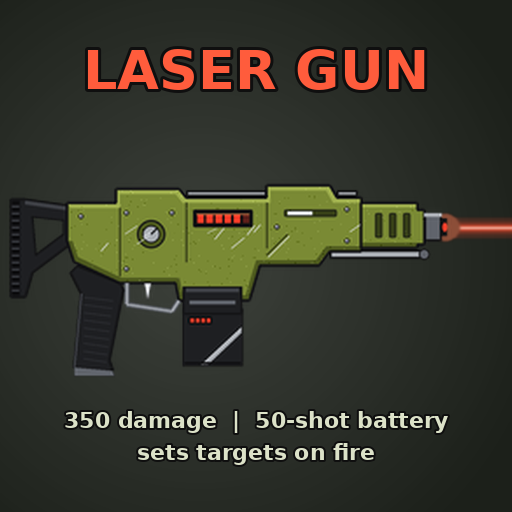
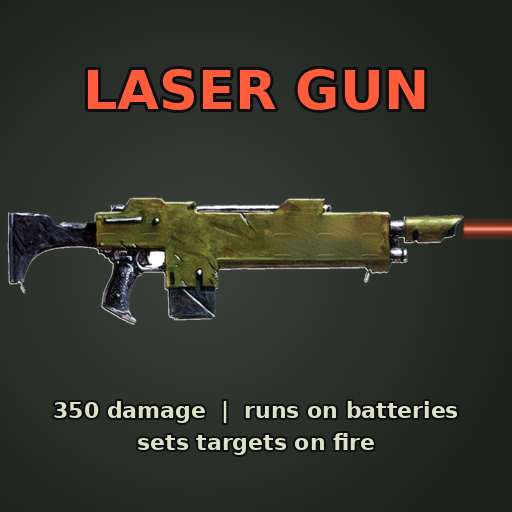
Laser Rifle sprite from the user's reference picture
Flipped to face right, background removed, insignia and lettering painted out;
regions/gun point re-fitted so the hands line up like the Boltgun rifle.

Claude-Session: https://claude.ai/code/session_01PqPi8SRqyZdJEsWyYG1nUx

diff --git a/tools/make_rifle_from_reference.py b/tools/make_rifle_from_reference.py
@@ -1,0 +1,43 @@
+import sys, numpy as np, cv2
+from PIL import Image
+src, out_sprite, out_full = sys.argv[1:4]
+img = cv2.imread(src)                       # BGR 1000x286
+h, w = img.shape[:2]
+# 1) paint out the insignia and lettering: fill smoothly from the surrounding paint (inpaint),
+#    then put back paint grain taken from a clean part of the receiver so it doesn't look smeared
+mask = np.zeros((h, w), np.uint8)
+for x0, y0, x1, y1 in ((190, 50, 428, 114), (188, 108, 418, 137), (648, 66, 798, 94)):
+    mask[y0:y1, x0:x1] = 255
+filled = cv2.inpaint(img, mask, 15, cv2.INPAINT_TELEA)
+filled = cv2.GaussianBlur(filled, (0, 0), 6)
+clean = img[100:146, 505:600].astype(np.float32)
+grain = clean - cv2.GaussianBlur(clean, (0, 0), 3)
+reps = (h // grain.shape[0] + 1, w // grain.shape[1] + 1, 1)
+grain = np.tile(grain, reps)[:h, :w]
+patch = np.clip(filled.astype(np.float32) + grain * 0.5, 0, 255)
+m3 = cv2.GaussianBlur(mask.astype(np.float32) / 255, (0, 0), 3)[..., None]
+img = (img * (1 - m3) + patch * m3).astype(np.uint8)
+# 2) cut out the white background (flood from the border) with a soft edge
+near_white = (img.min(axis=2) > 225).astype(np.uint8)
+ff = near_white.copy()
+fmask = np.zeros((h + 2, w + 2), np.uint8)
+for x in range(w):
+    for y in (0, h - 1):
+        if ff[y, x] == 1: cv2.floodFill(ff, fmask, (x, y), 2)
+for y in range(h):
+    for x in (0, w - 1):
+        if ff[y, x] == 1: cv2.floodFill(ff, fmask, (x, y), 2)
+bg = (ff == 2).astype(np.uint8)
+bg = cv2.morphologyEx(bg, cv2.MORPH_OPEN, np.ones((2, 2), np.uint8))
+alpha = (1 - bg) * 255
+alpha = cv2.GaussianBlur(alpha.astype(np.float32), (0, 0), 0.8).clip(0, 255).astype(np.uint8)
+rgba = np.dstack([img[..., ::-1], alpha])
+full = Image.fromarray(rgba, "RGBA").transpose(Image.FLIP_LEFT_RIGHT)   # muzzle to the right, like every game gun
+full.save(out_full)
+# 3) game sprite: 304x144 canvas at 0.27 scale, pistol grip at (75, 99) like the Boltgun rifle
+k = 0.27
+small = full.resize((round(w * k), round(h * k)), Image.LANCZOS)
+canvas = Image.new("RGBA", (304, 144), (0, 0, 0, 0))
+canvas.alpha_composite(small, (6, 45))
+canvas.save(out_sprite)
+print(small.size, canvas.getbbox())

diff --git a/tools/build_items.py b/tools/build_items.py
@@ -49,9 +49,12 @@ def base(key, mod_type, ppu, regions, size, rarity, weight, price, stack, craft,
         "repairRecipeItems": [{"itemId": i, "itemNumber": float(n)} for i, n in repair],
     }
 
-# Same canvas, regions and hand/muzzle/magazine offsets as the Boltgun rifle (the art is drawn to match).
-RIFLE_REGIONS = [("Main", (3, 15, 253, 118)), ("MainBody", (21, 21, 229, 110)), ("MovingPart", (99, 31, 45, 17)),
-                 ("Barrel", (221, 42, 29, 25)), ("Aimer", (73, 17, 128, 11)), ("Gunstock", (4, 28, 36, 56))]
+# The sprite is made from the user's reference picture (tools/make_rifle_from_reference.py): a 304x144 canvas at
+# 0.27 scale with the pistol grip at (75, 99). The Main region's centre sits at the same place relative to the
+# grip as on the Boltgun rifle, so the Boltgun's hand offsets still line up. The muzzle is 20 px lower than the
+# Boltgun's, hence the lower gunPointOffset_y.
+RIFLE_REGIONS = [("Main", (5, 14, 299, 118)), ("MainBody", (5, 14, 299, 118)), ("MovingPart", (150, 48, 30, 8)),
+                 ("Barrel", (246, 54, 30, 20)), ("Aimer", (110, 46, 90, 6)), ("Gunstock", (6, 52, 55, 50))]
 
 def rifle():
     d = base("rifle", "RangedWeapon", 230, RIFLE_REGIONS, (4, 3), 0.92, 4.2, 2400.0, 0,
@@ -79,7 +82,7 @@ def rifle():
         "weaponHandHeightOffset": -0.2847541570663452, "weaponHandOffsetRange": 0.3921833336353302,
         "leftHandOffsetRange": 0.4398137927055359, "leftHandHeightOffset": -0.0033399462699890138,
         "spriteOffset_x": 0.293729305267334, "spriteOffset_y": 0.2013387680053711,
-        "gunPointOffset_x": 0.36, "gunPointOffset_y": 0.2209,
+        "gunPointOffset_x": 0.36, "gunPointOffset_y": 0.134,
         "magazineOffset_x": 0.22326290607452393, "magazineOffset_y": 0.2423933744430542,
         "barrelOffset_x": 0.26514285802841187, "barrelOffset_y": 0.11695237457752228, "aimerOffset_x": 0.045904770493507385, "aimerOffset_y": 0.12323809415102005,
         "gunstockOffset_x": -0.08761905878782272, "gunstockOffset_y": 0.024761900305747986,

diff --git a/tools/make_art.py b/tools/make_art.py
@@ -294,10 +294,9 @@ def save(kind, key, img):
 
 def main():
     r = rifle(); b = battery(); c = cell()
-    save("RangedWeapons", "rifle", r)
+    # rifle sprite now comes from tools/make_rifle_from_reference.py
     save("Magazine", "battery", b)
     save("Ammo", "cell", c)
-    workshop_preview(r, b).save(os.path.join(HERE, "..", "workshop", "preview.png"))
     print("art written")
 
 

diff --git a/README.md b/README.md
@@ -39,6 +39,6 @@ To ship only original audio, set `[Sound] File = fire-original.wav` or replace `
 
 ## Art
 
-All sprites are original, drawn by `tools/make_art.py` (no third-party art or insignia).
+The rifle sprite is made from the reference picture the mod author supplied (`art-src/`), flipped to face right with its insignia and lettering painted out (`tools/make_rifle_from_reference.py`). The battery/charge sprites are original (`tools/make_art.py`).
 The rifle uses the Boltgun rifle's canvas, sprite regions and hand/muzzle/magazine offsets so it sits
 in the hands the same way.
